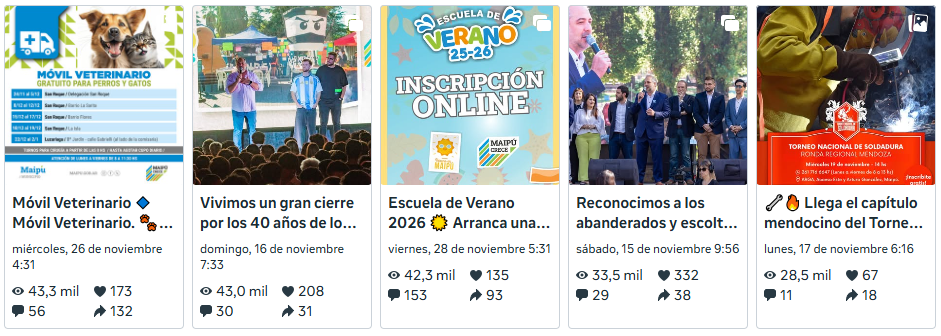
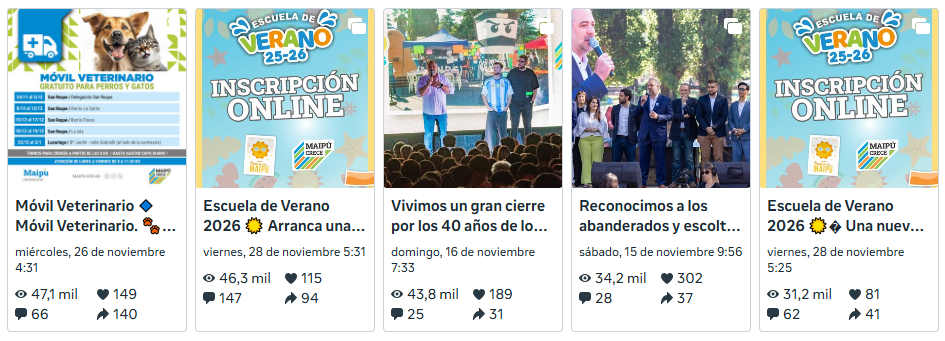
metricas

diff --git a/index.html b/index.html
@@ -494,26 +494,26 @@
           </thead>
           <tbody >
             <tr><th class="fb-head"><svg class="icon fb"><use href="#icon-fb"/></svg> Facebook – Alcances</th>
-              <td>108 200</td><td>71 100</td><td>110 600</td><td>49 000</td><td>36 982</td><td>98 696</td><td>335 432</td><td>245 200</td><td>256 800</td><td>137 200</td><td>189 900</td><td>0</td></tr>
+              <td>108 200</td><td>71 100</td><td>110 600</td><td>49 000</td><td>36 982</td><td>98 696</td><td>335 432</td><td>245 200</td><td>256 800</td><td>137 200</td><td>189 900</td><td>119 700</td></tr>
             <tr><th><svg class="icon fb"><use href="#icon-fb"/></svg> Facebook – Visualizaciones</th>
-              <td>718 100</td><td>384 600</td><td>456 900</td><td>183 700</td><td>103 695</td><td>404 872</td><td>1 314 098</td><td>1 900 000</td><td>1 800 000</td><td>1 100 000</td><td>798 000</td><td>0</td></tr>
+              <td>718 100</td><td>384 600</td><td>456 900</td><td>183 700</td><td>103 695</td><td>404 872</td><td>1 314 098</td><td>1 900 000</td><td>1 800 000</td><td>1 100 000</td><td>798 000</td><td>672 400</td></tr>
             <tr><th><svg class="icon fb"><use href="#icon-fb"/></svg> Facebook – Seguidores</th>
-              <td>727</td><td>379</td><td>246</td><td>207</td><td>177</td><td>148</td><td>312</td><td>293</td><td>707</td><td>371</td><td>249</td><td>0</td></tr>
+              <td>727</td><td>379</td><td>246</td><td>207</td><td>177</td><td>148</td><td>312</td><td>293</td><td>707</td><td>371</td><td>249</td><td>292</td></tr>
             <tr><th><svg class="icon fb"><use href="#icon-fb"/></svg> Facebook – Visitas</th>
-              <td>55 600</td><td>41 600</td><td>20 700</td><td>15 100</td><td>12 543</td><td>9 797</td><td>15 251</td><td>20 900</td><td>35 100</td><td>16 600</td><td>15 700</td><td>0</td></tr>
+              <td>55 600</td><td>41 600</td><td>20 700</td><td>15 100</td><td>12 543</td><td>9 797</td><td>15 251</td><td>20 900</td><td>35 100</td><td>16 600</td><td>15 700</td><td>23 800</td></tr>
             <tr><th><svg class="icon fb"><use href="#icon-fb"/></svg> Facebook – Mensajes</th>
-              <td>190</td><td>177</td><td>114</td><td>111</td><td>99</td><td>57</td><td>42</td><td>106</td><td>154</td><td>133</td><td>152</td><td>0</td></tr>
+              <td>190</td><td>177</td><td>114</td><td>111</td><td>99</td><td>57</td><td>42</td><td>106</td><td>154</td><td>133</td><td>152</td><td>217</td></tr>
 
             <tr><th class="ig-head"><svg class="icon ig"><use href="#icon-ig"/></svg> Instagram – Alcances</th>
-              <td>77 600</td><td>52 300</td><td>53 500</td><td>29 900</td><td>41 468</td><td>151 793</td><td>240 657</td><td>278 400</td><td>198 300</td><td>170 000</td><td>211 100</td><td>0</td></tr>
+              <td>77 600</td><td>52 300</td><td>53 500</td><td>29 900</td><td>41 468</td><td>151 793</td><td>240 657</td><td>278 400</td><td>198 300</td><td>170 000</td><td>211 100</td><td>175 600</td></tr>
             <tr><th><svg class="icon ig"><use href="#icon-ig"/></svg> Instagram – Visualizaciones</th>
-              <td>865 900</td><td>732 100</td><td>617 800</td><td>290 500</td><td>368 334</td><td>499 657</td><td>827 457</td><td>1 400 000</td><td>1 700 000</td><td>827 800</td><td>860 700</td><td>0</td></tr>
+              <td>865 900</td><td>732 100</td><td>617 800</td><td>290 500</td><td>368 334</td><td>499 657</td><td>827 457</td><td>1 400 000</td><td>1 700 000</td><td>827 800</td><td>860 700</td><td>1 200 000</td></tr>
             <tr><th><svg class="icon ig"><use href="#icon-ig"/></svg> Instagram – Seguidores</th>
-              <td>3 200</td><td>2 300</td><td>874</td><td>571</td><td>741</td><td>871</td><td>1 070</td><td>1 200</td><td>1 500</td><td>731</td><td>598</td><td>0</td></tr>
+              <td>3 200</td><td>2 300</td><td>874</td><td>571</td><td>741</td><td>871</td><td>1 070</td><td>1 200</td><td>1 500</td><td>731</td><td>598</td><td>1 200 </td></tr>
             <tr><th><svg class="icon ig"><use href="#icon-ig"/></svg> Instagram – Visitas</th>
-              <td>29 900</td><td>35 500</td><td>10 300</td><td>5 300</td><td>6 826</td><td>5 614</td><td>7 502</td><td>9 800</td><td>19 800</td><td>7 200</td><td>6 800</td><td>0</td></tr>
+              <td>29 900</td><td>35 500</td><td>10 300</td><td>5 300</td><td>6 826</td><td>5 614</td><td>7 502</td><td>9 800</td><td>19 800</td><td>7 200</td><td>6 800</td><td>16 000</td></tr>
             <tr><th><svg class="icon ig"><use href="#icon-ig"/></svg> Instagram – Mensajes</th>
-              <td>719</td><td>862</td><td>497</td><td>366</td><td>505</td><td>342</td><td>354</td><td>470</td><td>651</td><td>396</td><td>366</td><td>0</td></tr>
+              <td>719</td><td>862</td><td>497</td><td>366</td><td>505</td><td>342</td><td>354</td><td>470</td><td>651</td><td>396</td><td>366</td><td>576</td></tr>
           </tbody>
         </table>
       </div>
@@ -580,11 +580,11 @@
     const meses=['ENE','FEB','MAR','ABR','MAY','JUN','JUL','AGO','SEP','OCT','NOV','DIC'];
 
     const fb={
-      Alcances:[108200,71100,110600,49000,36982,98696,335432,245200,256800,137200,189900,0],
-      Visualizaciones:[718100,384600,456900,183700,103695,404872,1314098,1900000,1800000,1100000,798300,0],
-      Seguidores:[727,379,246,207,177,148,312,293,707,371,249,0],
-      Visitas:[55600,41600,20700,15100,12543,9797,15251,20900,35100,16600,15700,0],
-      Mensajes:[190,177,114,111,99,57,42,106,154,133,152,0]
+      Alcances:[108200,71100,110600,49000,36982,98696,335432,245200,256800,137200,189900,119700],
+      Visualizaciones:[718100,384600,456900,183700,103695,404872,1314098,1900000,1800000,1100000,798300,672400],
+      Seguidores:[727,379,246,207,177,148,312,293,707,371,249,292],
+      Visitas:[55600,41600,20700,15100,12543,9797,15251,20900,35100,16600,15700,23800],
+      Mensajes:[190,177,114,111,99,57,42,106,154,133,152,217]
     };
     const fbColors={
       Alcances:'rgba(56,142,60,.9)',
@@ -600,11 +600,11 @@
     }));
 
     const ig={
-      Alcances:[77600,52300,53500,29900,41468,151793,240657,278400,198300,170000,211100,0],
-      Visualizaciones:[865900,732100,617800,290500,368334,499657,827457,1400000,1700000,827800,860700,0],
-      Seguidores:[3200,2300,874,571,741,871,1070,1200,1500,731,598,0],
-      Visitas:[29900,35500,10300,5300,6826,5614,7502,9800,19800,7200,6800,0],
-      Mensajes:[719,862,497,366,505,342,354,470,651,396,366,0]
+      Alcances:[77600,52300,53500,29900,41468,151793,240657,278400,198300,170000,211100,175600],
+      Visualizaciones:[865900,732100,617800,290500,368334,499657,827457,1400000,1700000,827800,860700,1200000],
+      Seguidores:[3200,2300,874,571,741,871,1070,1200,1500,731,598,1200],
+      Visitas:[29900,35500,10300,5300,6826,5614,7502,9800,19800,7200,6800,16000],
+      Mensajes:[719,862,497,366,505,342,354,470,651,396,366,576]
     };
     const igColors={
       Alcances:'rgba(255,202,40,.9)',
@@ -671,19 +671,23 @@
       },
       agosto: {
         imagen: './img/fagosto.PNG',
-        descripcion: ''
+        descripcion: 'Cientos de jóvenes de Maipú fueron protagonistas en la 1° Expo Ciencia Educativa. 🔬'
       },
       septiembre: {
         imagen: './img/fseptiembre.PNG',
-        descripcion: ''
+        descripcion: '✨ Ayer Maipú volvió a vivir con orgullo el Desfile Cívico Escolar Militar del 24 de septiembre.'
       },
       octubre: {
         imagen: './img/foctubre.PNG',
-        descripcion: ''
+        descripcion: '📢 Centro de Atención Primaria - Veterinaria. ➡ Turnos: Se dan a partir de las 8 h.'
       },
-       noviembre: {
+      noviembre: {
         imagen: './img/fnoviembre.PNG',
-        descripcion: ''
+        descripcion: 'Móvil Veterinario 🔹 Móvil Veterinario. 🐾 Gratuito para perros y gatos. 🐈 ▪'
+      },
+      diciembre: {
+        imagen: './img/fdiciembre.PNG',
+        descripcion: '¡YO COMPRO EN MAIPÚ! Brindá en Maipú: Edición Navidad 🎄🧑🏼🎄 🧾'
       }
     };
 
@@ -718,19 +722,23 @@
       },
       agosto: {
         imagen: './img/iagosto.PNG',
-        descripcion: ''
+        descripcion: '🎉 ¡Maipú celebra a lo grande el Mes de la Niñez! 👧🏻'
       },
       septiembre: {
         imagen: './img/iseptiembre.PNG',
-        descripcion: ''
+        descripcion: '🎉40 años de historias, más que un punto de encuentro, en Maipú los kioscos representan grandes historias.'
       },
       octubre: {
         imagen: './img/ioctubre.PNG',
-        descripcion: ''
+        descripcion: '💡 En Maipú pensamos en beneficios reales para vos y tu comercio.'
       },
       noviembre: {
         imagen: './img/inoviembre.PNG',
-        descripcion: ''
+        descripcion: 'Vivimos un gran cierre por los 40 años de los kioscos, compartiendo una noche de alegría.'
+      },
+      diciembre: {
+        imagen: './img/idiciembre.PNG',
+        descripcion: '🎸 Llega ROCK CON VOS a Maipú Una tarde para encontrarnos, disfrutar de buena música y vivir el rock al aire libre.'
       }
     };
 

diff --git a/matias.html b/matias.html
@@ -495,32 +495,32 @@
             <!-- FACEBOOK -->
             <tr><th class="fb-head"><svg class="icon fb"><use href="#icon-fb"/></svg> Facebook – Alcances</th>
               <td>28 200</td><td>25 200</td><td>29 600</td><td>23 200</td><td>10 331</td><td>95 487</td>
-              <td>186 521</td><td>179 500</td><td>28 600</td><td>10 000</td><td>38 500</td><td>0</td></tr>
+              <td>186 521</td><td>179 500</td><td>28 600</td><td>10 000</td><td>38 500</td><td>17 800</td></tr>
             <tr><th><svg class="icon fb"><use href="#icon-fb"/></svg> Facebook – Visualizaciones</th>
               <td>105 000</td><td>82 600</td><td>78 600</td><td>51 900</td><td>26 088</td><td>385 546</td>
-              <td>1 785 223</td><td>1 200 000</td><td>72 900</td><td>68 800</td><td>59 100</td><td>0</td></tr>
+              <td>1 785 223</td><td>1 200 000</td><td>72 900</td><td>68 800</td><td>59 100</td><td>26 200</td></tr>
             <tr><th><svg class="icon fb"><use href="#icon-fb"/></svg> Facebook – Seguidores</th>
-              <td>191</td><td>53</td><td>40</td><td>30</td><td>107</td><td>98</td><td>71</td><td>47</td><td>56</td><td>77</td><td>40</td><td>0</td></tr>
+              <td>191</td><td>53</td><td>40</td><td>30</td><td>107</td><td>98</td><td>71</td><td>47</td><td>56</td><td>77</td><td>40</td><td>23</td></tr>
             <tr><th><svg class="icon fb"><use href="#icon-fb"/></svg> Facebook – Visitas</th>
               <td>4 500</td><td>3 300</td><td>2 900</td><td>2 900</td><td>2 494</td><td>1 829</td>
-              <td>1 990</td><td>1 900</td><td>2 000</td><td>2 000</td><td>1 100</td><td>0</td></tr>
+              <td>1 990</td><td>1 900</td><td>2 000</td><td>2 000</td><td>1 100</td><td>1 100</td></tr>
             <tr><th><svg class="icon fb"><use href="#icon-fb"/></svg> Facebook – Mensajes</th>
-              <td>76</td><td>40</td><td>62</td><td>61</td><td>33</td><td>17</td><td>15</td><td>0</td><td>23</td><td>36</td><td>16</td><td>0</td></tr>
+              <td>76</td><td>40</td><td>62</td><td>61</td><td>33</td><td>17</td><td>15</td><td>0</td><td>23</td><td>36</td><td>16</td><td>14</td></tr>
             <!-- INSTAGRAM -->
             <tr><th class="ig-head"><svg class="icon ig"><use href="#icon-ig"/></svg> Instagram – Alcances</th>
               <td>24 600</td><td>28 100</td><td>20 400</td><td>32 600</td><td>27 275</td><td>118 943</td>
-              <td>230 638</td><td>247 000</td><td>33 900</td><td>43 600</td><td>76 500</td><td>0</td></tr>
+              <td>230 638</td><td>247 000</td><td>33 900</td><td>43 600</td><td>76 500</td><td>80 900</td></tr>
             <tr><th><svg class="icon ig"><use href="#icon-ig"/></svg> Instagram – Visualizaciones</th>
               <td>113 800</td><td>112 700</td><td>82 500</td><td>132 500</td><td>143 779</td><td>225 134</td>
-              <td>857 270</td><td>680 000</td><td>253 700</td><td>180 700</td><td>256 300</td><td>0</td></tr>
+              <td>857 270</td><td>680 000</td><td>253 700</td><td>180 700</td><td>256 300</td><td>293 000</td></tr>
             <tr><th><svg class="icon ig"><use href="#icon-ig"/></svg> Instagram – Seguidores</th>
-              <td>298</td><td>269</td><td>151</td><td>158</td><td>191</td><td>252</td><td>467</td><td>345</td><td>199</td><td>240</td><td>182</td><td>0</td></tr>
+              <td>298</td><td>269</td><td>151</td><td>158</td><td>191</td><td>252</td><td>467</td><td>345</td><td>199</td><td>240</td><td>182</td><td>175</td></tr>
             <tr><th><svg class="icon ig"><use href="#icon-ig"/></svg> Instagram – Visitas</th>
               <td>1 500</td><td>1 800</td><td>1 100</td><td>1 200</td><td>1 627</td><td>1 476</td>
-              <td>31 944</td><td>2 400</td><td>1 900</td><td>2 000</td><td>1 400</td><td>0</td></tr>
+              <td>31 944</td><td>2 400</td><td>1 900</td><td>2 000</td><td>1 400</td><td>1 700</td></tr>
             <tr><th><svg class="icon ig"><use href="#icon-ig"/></svg> Instagram – Mensajes</th>
               <td>172</td><td>198</td><td>148</td><td>142</td><td>134</td><td>144</td>
-              <td>132</td><td>155</td><td>185</td><td>170</td><td>122</td><td>0</td></tr>
+              <td>132</td><td>155</td><td>185</td><td>170</td><td>122</td><td>137</td></tr>
           </tbody>
         </table>
       </div>
@@ -587,18 +587,18 @@
     const meses=['ENE','FEB','MAR','ABR','MAY','JUN','JUL','AGO','SEP','OCT','NOV','DIC'];
 
     const fb={
-      Alcances:[28200,25200,29600,23200,10331,95487,186521,179500,28600,10000,38500,0],
-      Visualizaciones:[105000,82600,78600,51900,26088,385546,1785223,1200000,72900,68800,59100,0],
-      Seguidores:[191,53,40,30,107,98,71,47,56,77,40,0],
-      Visitas:[4500,3300,2900,2900,2494,1829,1990,1900,2000,2000,1100,0],
-      Mensajes:[76,40,62,61,33,17,15,0,23,36,16,0]
+      Alcances:[28200,25200,29600,23200,10331,95487,186521,179500,28600,10000,38500,17800],
+      Visualizaciones:[105000,82600,78600,51900,26088,385546,1785223,1200000,72900,68800,59100,26200],
+      Seguidores:[191,53,40,30,107,98,71,47,56,77,40,23],
+      Visitas:[4500,3300,2900,2900,2494,1829,1990,1900,2000,2000,1100,1100],
+      Mensajes:[76,40,62,61,33,17,15,0,23,36,16,14]
     };
     const ig={
-      Alcances:[24600,28100,20400,32600,27275,118943,230638,247000,33900,43600,76500,0],
-      Visualizaciones:[113800,112700,82500,132500,143779,225134,857270,680000,253700,180700,256300,0],
-      Seguidores:[298,269,151,158,191,252,467,345,199,240,182,0],
-      Visitas:[1500,1800,1100,1200,1627,1476,31944,2400,1900,2000,1400,0],
-      Mensajes:[172,198,148,142,134,144,132,155,185,170,122,0]
+      Alcances:[24600,28100,20400,32600,27275,118943,230638,247000,33900,43600,76500,80900],
+      Visualizaciones:[113800,112700,82500,132500,143779,225134,857270,680000,253700,180700,256300,293000],
+      Seguidores:[298,269,151,158,191,252,467,345,199,240,182,175],
+      Visitas:[1500,1800,1100,1200,1627,1476,31944,2400,1900,2000,1400,1700],
+      Mensajes:[172,198,148,142,134,144,132,155,185,170,122,137]
     };
 
     const fbColors={
@@ -679,19 +679,23 @@
       },
       agosto: {
         imagen: './img/matiasagostof.PNG',
-        descripcion: ''
+        descripcion: '📍En Maipú tomamos la decisión de profundizar el acompañamiento a nuestros adultos mayores y personas con discapacidad: AHORA TIENEN EXENCIÓN TOTAL DE TASAS MUNICIPALES.'
       },
       septiembre: {
         imagen: './img/matiasseptiembref.PNG',
-        descripcion: ''
+        descripcion: '🌟 50° Desfile Real Solidario. '
       },
       octubre: {
         imagen: './img/matiasoctubref.PNG',
-        descripcion: ''
+        descripcion: 'Día de la Madre.'
       },
        noviembre: {
         imagen: './img/matiasnoviembref.PNG',
-        descripcion: ''
+        descripcion: ' Día de la Soberanía Nacional.'
+      },
+      diciembre: {
+        imagen: './img/matiasdiciembref.PNG',
+        descripcion: 'Festival del vacio a las llamas.'
       }
     };
 
@@ -726,19 +730,23 @@
       },
       agosto: {
         imagen: './img/matiasagostoi.PNG',
-        descripcion: ''
+        descripcion: '🔹Plan Integral de Asfalto 2025-2026.🔹 📍Jerónimo Ruiz. ➕Más de 450 cuadras de barrios de Maipú.'
       },
       septiembre: {
         imagen: './img/matiasseptiembrei.PNG',
-        descripcion: ''
+        descripcion: 'Con el izamiento de nuestra bandera argentina en la Plaza Departamental 12 de Febrero.'
       },
       octubre: {
         imagen: './img/matiasoctubrei.PNG',
-        descripcion: ''
+        descripcion: ' Fue un placer formar parte del 20° aniversario de la Asociación Mendocina de Pesca 🎣'
       },
         noviembre: {
         imagen: './img/matiasnoviembrei.PNG',
-        descripcion: ''
+        descripcion: 'Vivimos un gran cierre por los 40 años de los kioscos, compartiendo una noche de alegría.'
+      },
+      diciembre: {
+        imagen: './img/matiasdiciembrei.PNG',
+        descripcion: 'Definimos la lista de concejales que acompañará la próxima etapa de Maipú.'
       }
     };
 
